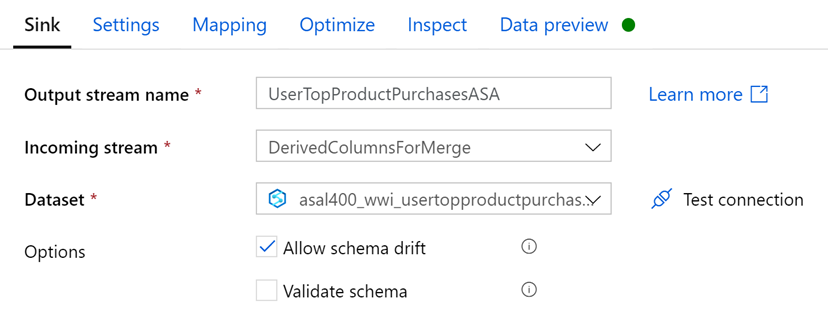
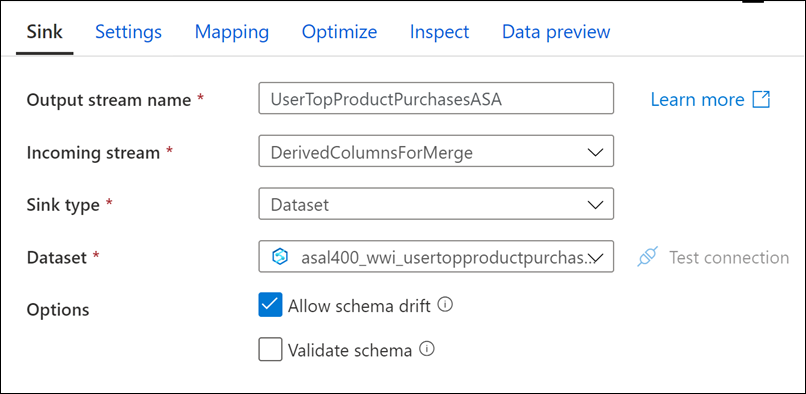
Finished mapping data flow

diff --git a/demos/module4/README.md b/demos/module4/README.md
@@ -236,7 +236,7 @@ Complete the steps below to create the following two datasets: `asal400_ecommerc
 
     ![The flatten settings are configured as described.](media/data-flow-user-profiles-flatten-settings.png "Flatten settings")
 
-    These settings provide a flattened view of the data source with one or more rows per `visitorId`, similar to when you explored the data within the Spark notebook in lab 1. Using data preview requires you to enable Debug mode, which we are not enabling for this lab. *The following screenshot is for illustration only*:
+    These settings provide a flattened view of the data source with one or more rows per `visitorId`, similar to when we explored the data within the Spark notebook in the previous module. Using data preview requires you to enable Debug mode, which we are not enabling for this lab. *The following screenshot is for illustration only*:
 
     ![The data preview tab is displayed with a sample of the file contents.](media/data-flow-user-profiles-flatten-data-preview.png "Data preview")
 
@@ -306,8 +306,8 @@ Complete the steps below to create the following two datasets: `asal400_ecommerc
 
         | UserProfiles's column | Name as |
         | --- | --- |
-        | userId | `userId` |
         | [] preferredProducts | `preferredProductId` |
+        | userId | `userId` |
 
     ![The flatten settings are configured as described.](media/data-flow-user-profiles-flatten2-settings.png "Flatten settings")
 
@@ -362,7 +362,7 @@ Complete the steps below to create the following two datasets: `asal400_ecommerc
 
     - **Output stream name**: Enter `DerivedColumnsForMerge`.
     - **Incoming stream**: Select `JoinTopProductsWithPreferredProducts`.
-    - **Columns**: Provide the following information (_type in_ the _first two_ column names):
+    - **Columns**: Provide the following information (**_type in_ the _first two_ column names**):
 
         | Column | Expression | Description |
         | --- | --- | --- |
@@ -385,6 +385,7 @@ Complete the steps below to create the following two datasets: `asal400_ecommerc
 
     - **Output stream name**: Enter `UserTopProductPurchasesASA`.
     - **Incoming stream**: Select `DerivedColumnsForMerge`.
+    - **Sink type**: select `Dataset`.
     - **Dataset**: Select `asal400_wwi_usertopproductpurchases_asa`, which is the UserTopProductPurchases SQL table.
     - **Options**: Check `Allow schema drift` and uncheck `Validate schema`.
 
